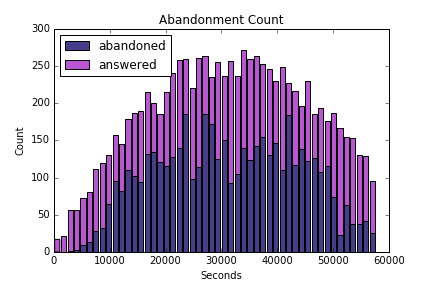
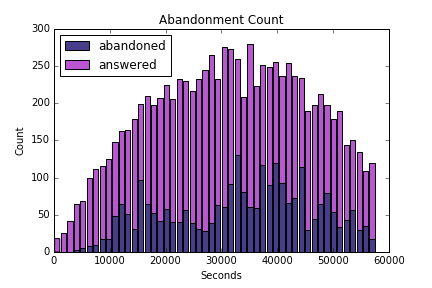
charts and csvs

Changed region(s): [[0.1204, 0.1562, 0.8727, 0.875]]

diff --git a/MMnPSQ.py b/MMnPSQ.py
@@ -43,7 +43,7 @@ class SimulationModel():
         ta = t0
         id_active = 0
         # generate a two server model
-        day_of_week = "Fri"
+        day_of_week = "Mon"
         dt = pd.read_csv("overallshift.csv")
         schedule = dt.query('start <= %s < end' % t0)[day_of_week].values[0]
 
@@ -201,7 +201,7 @@ class SimulationModel():
         t0 = rnd.expovariate(self.demand[5]) * 60.
         ta = t0
         id_active = 0
-        day_of_week = "Sun"
+        day_of_week = "Mon"
         # generate a two server model
         dt = pd.read_csv("overallshift.csv")
         schedule = dt.query('start <= %s < end'%t0)[day_of_week].values[0]
@@ -358,7 +358,7 @@ class SimulationModel():
         is a concave quadratic continuous function in the R2 space
         """
         t = np.linspace(0,work_day_hours,work_day_hours*60)
-        demand = -25*t*(t-work_day_hours)
+        demand = -10*t*(t-work_day_hours)
         return demand
 
     def generate_abandoment(self, wait_time):

diff --git a/MMnnPSQ.py b/MMnnPSQ.py
@@ -111,7 +111,7 @@ class SimulationModel():
         ta = t0
         id_active = 0
         # generate a two server model
-        day_of_week = 'Fri'
+        day_of_week = 'Mon'
         dt = pd.read_csv("overallshift.csv")
         schedule = dt.query('start <= %s < end' % t0)[day_of_week].values[0]
         shift_changes = deque([3600, 7200, 18000, 21600, 25200, 32400, 36000, 39600, 50400, 54000, 57600])
@@ -555,7 +555,7 @@ class SimulationModel():
         is a concave quadratic continuous function in the R2 space
         """
         t = np.linspace(0, work_day_hours, work_day_hours * 60)
-        demand = -25 * t * (t - work_day_hours)
+        demand = -10 * t * (t - work_day_hours)
         return demand
 
     def plot_wait_time(self, filename):
